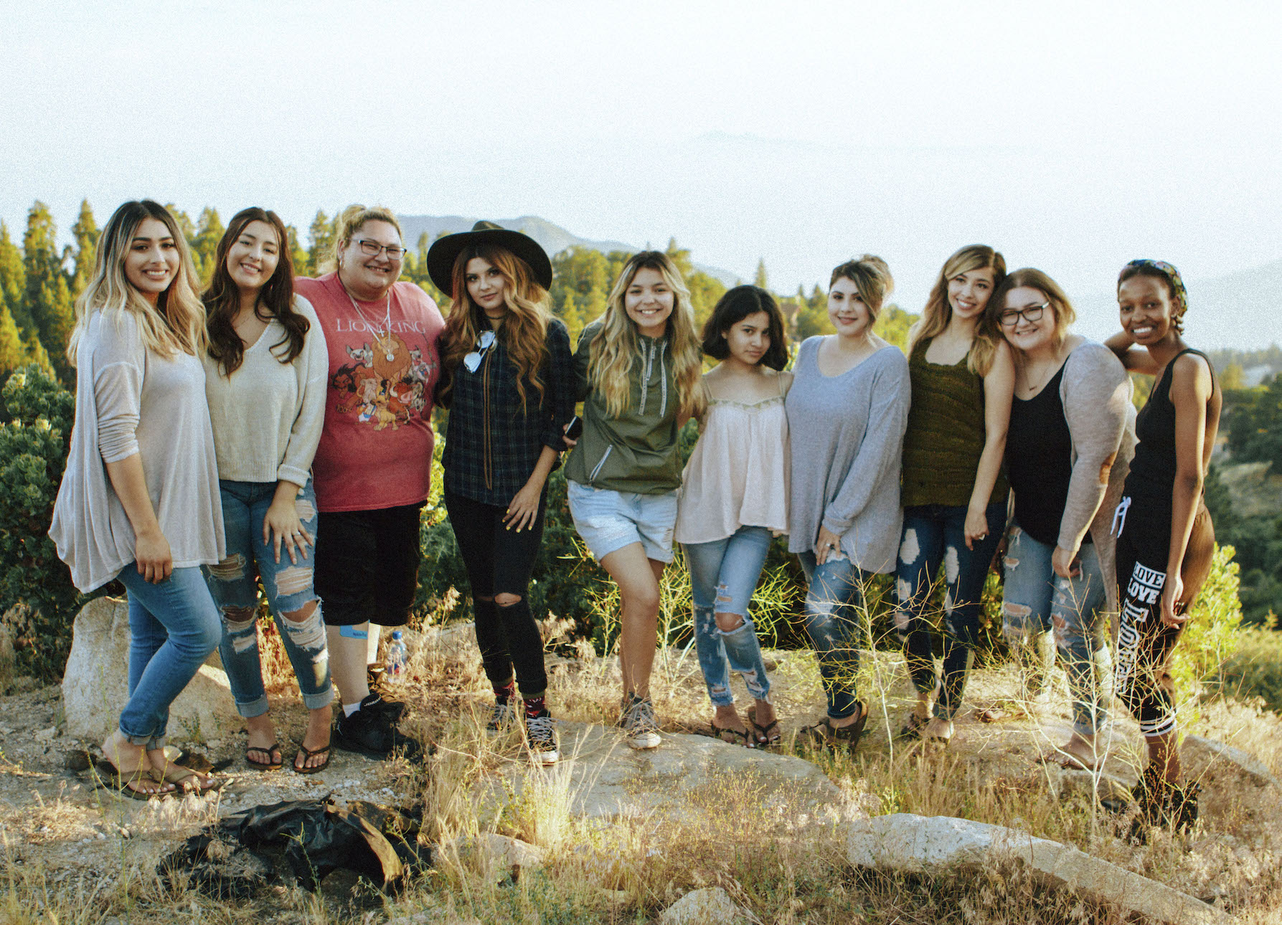
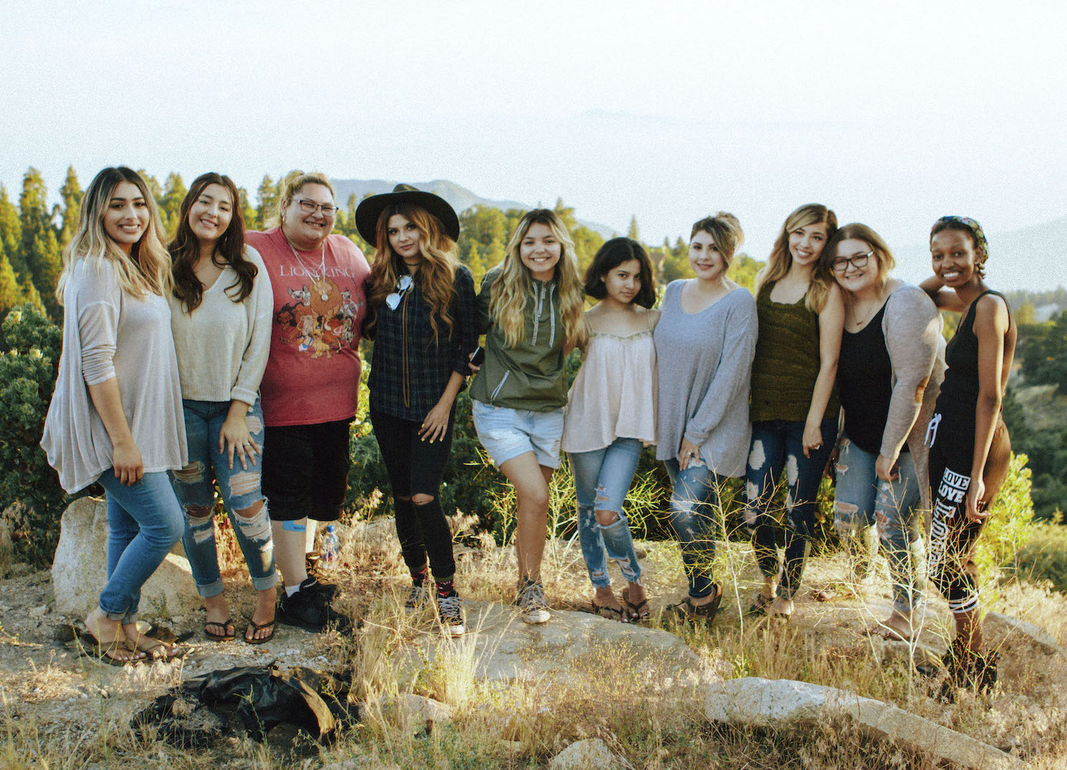
Fixed img file size and added hero image

diff --git a/unplugged-site/css/main.css b/unplugged-site/css/main.css
@@ -242,6 +242,10 @@ footer .copyright {
   display: flex;
   justify-content: center;
   flex-flow: row wrap;
+  background-image: url('img/hero-image.jpg');
+  background-size: cover;
+  background-repeat: no-repeat;
+  background-position: center;
 }
 
 /* Aside */
